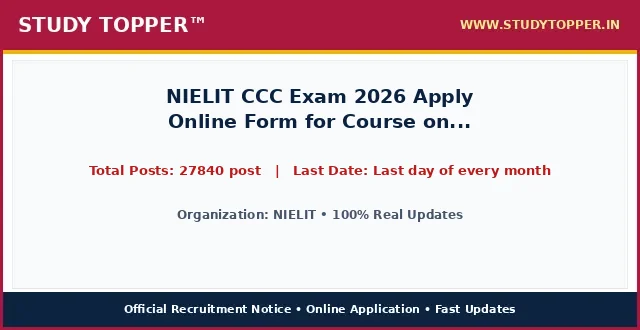
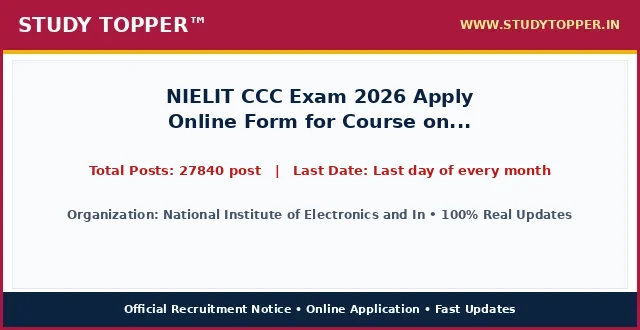
chore(lifecycle): daily auto-sort vacancies and update active dates

Changed region(s): [[0.0938, 0.6364, 0.9062, 0.6667]]

diff --git a/pages/nielit-ccc-july26.html b/pages/nielit-ccc-july26.html
@@ -987,12 +987,12 @@ ul.wp-block-latest-posts a:hover {
 <main class="site-main" id="main">
 <div class="gb-container gb-container-b39c368c">
 <h1 class="gb-headline gb-headline-e52a0102 gb-headline-text" style="font-size: 22px; font-weight: 700; color: #0000cd; text-align: left; margin: 8px 0 4px 0; line-height: 1.3; width: 100%; font-family: '-apple-system, BlinkMacSystemFont, 'Segoe UI', Roboto, 'Helvetica Neue', Arial, sans-serif', Times, serif, Hind, sans-serif;">NIELIT CCC Exam 2026 Apply Online Form for Course on Computer Concepts CCC</h1>
-<div class="gb-container gb-container-659bd175"><p style="color: #cd0808; font-weight: 700; font-size: 15px; margin: 2px 0 7px 0; text-align: left; font-family: '-apple-system, BlinkMacSystemFont, 'Segoe UI', Roboto, 'Helvetica Neue', Arial, sans-serif', Times, serif, Hind, sans-serif;">Post Date: August 22, 2026 12:18 PM</p></div>
-<p class="gb-headline gb-headline-550ae316 short_Details gb-headline-text" style="width: 100%; max-width: 100%; font-size: 16.8px; line-height: 1.55; color: #000000; text-align: justify; text-justify: inter-word; margin: 8px 0 14px 0; display: block; font-family: '-apple-system, BlinkMacSystemFont, 'Segoe UI', Roboto, 'Helvetica Neue', Arial, sans-serif', Times, serif, Hind, sans-serif;"><strong style="color: #0000cd;">NIELIT</strong> has officially published the recruitment notice <strong style="color: #cd0808;">NIELIT CCC Exam 2026 Apply Online Form for Course on Computer Concepts CCC</strong> under notification number 2026. Online applications are invited for 27840 post across multiple departments and cadre positions. Interested candidates possessing the requisite educational qualifications and falling between 18 Years to 40 Years can complete their online registration before the application deadline of Last day of every month. Applicants should read the eligibility criteria, category reservation rules, and exam scheme thoroughly before submitting applications.</p>
+<div class="gb-container gb-container-659bd175"><p style="color: #cd0808; font-weight: 700; font-size: 15px; margin: 2px 0 7px 0; text-align: left; font-family: '-apple-system, BlinkMacSystemFont, 'Segoe UI', Roboto, 'Helvetica Neue', Arial, sans-serif', Times, serif, Hind, sans-serif;">Post Date: August 22, 2026 01:08 PM</p></div>
+<p class="gb-headline gb-headline-550ae316 short_Details gb-headline-text" style="width: 100%; max-width: 100%; font-size: 16.8px; line-height: 1.55; color: #000000; text-align: justify; text-justify: inter-word; margin: 8px 0 14px 0; display: block; font-family: '-apple-system, BlinkMacSystemFont, 'Segoe UI', Roboto, 'Helvetica Neue', Arial, sans-serif', Times, serif, Hind, sans-serif;"><strong style="color: #0000cd;">National Institute of Electronics and Information Technology (NIELIT)</strong> has officially published the recruitment notice <strong style="color: #cd0808;">NIELIT CCC Exam 2026 Apply Online Form for Course on Computer Concepts CCC</strong> under notification number Official Notification 2026. Online applications are invited for 27840 post across multiple departments and cadre positions. Interested candidates possessing the requisite educational qualifications and falling between 18 Years to 40 Years can complete their online registration before the application deadline of Last day of every month. Applicants should read the eligibility criteria, category reservation rules, and exam scheme thoroughly before submitting applications.</p>
 <div class="gb-container gb-container-9849916c"><div class="social-buttons-compact" style="display: flex; justify-content: flex-start; align-items: center; gap: 10px; margin: 10px 0 16px 0; width: 100%;"><a class="social-btn-compact wa" href="https://whatsapp.com/channel/0029Va9xyz" rel="noopener" style="background-color: #00d084; color: #ffffff; padding: 10px 18px; border-radius: 4px; text-decoration: none; font-weight: bold; font-size: 15.5px; display: inline-flex; align-items: center; justify-content: center; height: auto;" target="_blank">WhatsApp</a><a class="social-btn-compact tg" href="https://t.me/studytopperofficial" rel="noopener" style="background-color: #0088cc; color: #ffffff; padding: 10px 18px; border-radius: 4px; text-decoration: none; font-weight: bold; font-size: 15.5px; display: inline-flex; align-items: center; justify-content: center; height: auto;" target="_blank">Telegram</a></div></div>
 <div class="gb-container gb-container-f58e6ca1" style="border: 2px solid #5b032f; border-radius: 4px; overflow: hidden; margin: 15px 0 20px 0; background-color: #ffffff; width: 100%; box-sizing: border-box;">
 <h2 class="gb-headline gb-headline-2ca5a791 gb-headline-text" style="font-size: 16px; font-weight: 700; text-align: center; color: #ef0303; line-height: 1.3; padding: 6px 4px; margin: 0; background: #ffffff; font-family: '-apple-system, BlinkMacSystemFont, 'Segoe UI', Roboto, 'Helvetica Neue', Arial, sans-serif', Times, serif, Hind, sans-serif;">NIELIT CCC Exam 2026 Apply Online Form for Course on Computer Concepts CCC &ndash; Latest Details &amp; Updates</h2>
-<h3 class="gb-headline gb-headline-7d5f86e8 gb-headline-text" style="font-size: 16px; font-weight: 600; text-align: center; color: #009703; line-height: 1.25; margin: 0; padding: 2px 4px 6px 4px; background: #ffffff; font-family: '-apple-system, BlinkMacSystemFont, 'Segoe UI', Roboto, 'Helvetica Neue', Arial, sans-serif', Times, serif, Hind, sans-serif;">NIELIT : Details &amp; Summary</h3>
+<h3 class="gb-headline gb-headline-7d5f86e8 gb-headline-text" style="font-size: 16px; font-weight: 600; text-align: center; color: #009703; line-height: 1.25; margin: 0; padding: 2px 4px 6px 4px; background: #ffffff; font-family: '-apple-system, BlinkMacSystemFont, 'Segoe UI', Roboto, 'Helvetica Neue', Arial, sans-serif', Times, serif, Hind, sans-serif;">National Institute of Electronics and Information Technology (NIELIT) : Details &amp; Summary</h3>
 <p class="gb-headline gb-headline-79adf169 gb-headline-text" style="margin: 0 0 6px 0; font-family: '-apple-system, BlinkMacSystemFont, 'Segoe UI', Roboto, 'Helvetica Neue', Arial, sans-serif', Times, serif, Hind, sans-serif; text-align: center; font-size: 18px; font-weight: 700;"><a href="/" style="color: #0000ff; text-decoration: underline;">StudyTopper.in</a></p>
 
 <style id="st-post-boxes-responsive-css">
@@ -1047,7 +1047,7 @@ ul.wp-block-latest-posts a:hover {
 <div class="st-grid-row" style="display: flex; flex-wrap: wrap; width: 100%; border-top: 2px solid #5b032f; margin: 0; padding: 0; box-sizing: border-box;">
   <!-- Left Col: Age Limits -->
   <div class="st-col-half st-col-border-right" style="box-sizing: border-box; vertical-align: top;">
-    <div style="background-color: #046132; color: #ffffff; padding: 8px 10px; font-size: 17px; font-weight: 700; text-align: center; font-family: '-apple-system, BlinkMacSystemFont, 'Segoe UI', Roboto, 'Helvetica Neue', Arial, sans-serif', Times, serif, Hind, sans-serif;">NIELIT : Age Limits As On 01/08/2026</div>
+    <div style="background-color: #046132; color: #ffffff; padding: 8px 10px; font-size: 17px; font-weight: 700; text-align: center; font-family: '-apple-system, BlinkMacSystemFont, 'Segoe UI', Roboto, 'Helvetica Neue', Arial, sans-serif', Times, serif, Hind, sans-serif;">National Institute of Electronics and Information Technology (NIELIT) : Age Limits As On 01/08/2026</div>
     <div style="padding: 12px 14px; background-color: #ffffff;">
       <ul style="padding-left: 20px; margin: 0; list-style-type: disc; text-align: left; font-size: 14pt; line-height: 1.6; font-family: '-apple-system, BlinkMacSystemFont, 'Segoe UI', Roboto, 'Helvetica Neue', Arial, sans-serif', Times, serif, Hind, sans-serif;">
         <li><span style="font-size: 14pt;">Minimum Age : <strong>NA</strong></span></li><li><span style="font-size: 14pt;">Maximum Age : <strong>NA</strong></span></li>
@@ -1079,9 +1079,9 @@ ul.wp-block-latest-posts a:hover {
 <th style="background-color: #f53c00; color: #ffffff; padding: 6px 10px; text-align: center; border: 1px solid #d35400; font-size: 15px; font-weight: 700; font-family: '-apple-system, BlinkMacSystemFont, 'Segoe UI', Roboto, 'Helvetica Neue', Arial, sans-serif', Times, serif, Hind, sans-serif;">Eligibility Criteria</th>
 </tr>
 <tr>
-<td style="padding: 8px; border: 1px solid #ddd; font-weight: bold;">NIELIT NIELIT CCC Exam 2026 Apply Online Form for Course on Computer Concepts CCC</td>
+<td style="padding: 8px; border: 1px solid #ddd; font-weight: bold;">NIELIT CCC Exam 2026 Apply Online Form for Course on Computer Concepts CCC</td>
 <td style="padding: 8px; border: 1px solid #ddd; text-align: center; font-weight: bold;">27840 post</td>
-<td style="padding: 8px; border: 1px solid #ddd;">Passed relevant Educational Qualification from Any Recognized Board / University in India. Read full official notification for post-wise details.</td>
+<td style="padding: 8px; border: 1px solid #ddd;">Passed prescribed Educational Qualification from Any Recognized Board / University in India. Read full official notification for post-wise eligibility criteria.</td>
 </tr>
 </tbody>
 </table>
@@ -1093,7 +1093,7 @@ ul.wp-block-latest-posts a:hover {
 <table style="border-collapse: collapse; width: 100%;">
 <tbody>
 <tr>
-<td style="width: 100%; text-align: center;"><span style="background-color: #000080; color: #ffffff; font-size: 14pt; font-weight: bold; display: block; padding: 6px;"> How to Fill NIELIT Online Application Form </span></td>
+<td style="width: 100%; text-align: center;"><span style="background-color: #000080; color: #ffffff; font-size: 14pt; font-weight: bold; display: block; padding: 6px;"> How to Fill National Institute of Electronics and Information Technology (NIELIT) Online Application Form </span></td>
 </tr>
 <tr>
 <td style="width: 100%;"><ol style="margin:0; padding-left:18px; text-align: left !important; list-style-position: outside !important"><li style="margin-bottom:6px; text-align: left !important;">Online Form 2026</li><li style="margin-bottom:6px; text-align: left !important;">Note : Apaar ID / ABC Id is Compulsory of CCC Exam 2026</li><li style="margin-bottom:6px; text-align: left !important;">Candidate Can Click on the Apply Online Form</li><li style="margin-bottom:6px; text-align: left !important;">Fill the All Basic Details Name, Father Name, Date of Birth and Aadhar Card, Contact Details</li><li style="margin-bottom:6px; text-align: left !important;">Upload Candidate Passport Size</li><li style="margin-bottom:6px; text-align: left !important;">Photo, Signature and Thumb</li><li style="margin-bottom:6px; text-align: left !important;">Pay the Examination Fee and Complete the Application Form.</li><li style="margin-bottom:6px; text-align: left !important;">Take A Print Out of Application Form</li><li style="margin-bottom:6px; text-align: left !important;">Next Month First Week You have Download Admit Card to Enter Your Application No. and DOB</li><li style="margin-bottom:6px; text-align: left !important;">Resize candidate photograph and signature accurately using the <a href="https://indtool.in" rel="noopener" target="_blank"><strong>StudyTopper Tools</strong></a> image resizer at indtool.in.</li></ol></td>
@@ -1104,7 +1104,7 @@ ul.wp-block-latest-posts a:hover {
 <table style="border-collapse: collapse; width: 100%;">
 <tbody>
 <tr>
-<td style="width: 100%; text-align: center;"><span style="background-color: #000080; color: #ffffff; font-size: 14pt;"><strong><span style="color: #ffffff;"> NIELIT Recruitment 2026 : Mode Of Selection </span></strong></span></td>
+<td style="width: 100%; text-align: center;"><span style="background-color: #000080; color: #ffffff; font-size: 14pt;"><strong><span style="color: #ffffff;"> National Institute of Electronics and Information Technology (NIELIT) Recruitment 2026 : Mode Of Selection </span></strong></span></td>
 </tr>
 <tr>
 <td style="width: 100%;">
